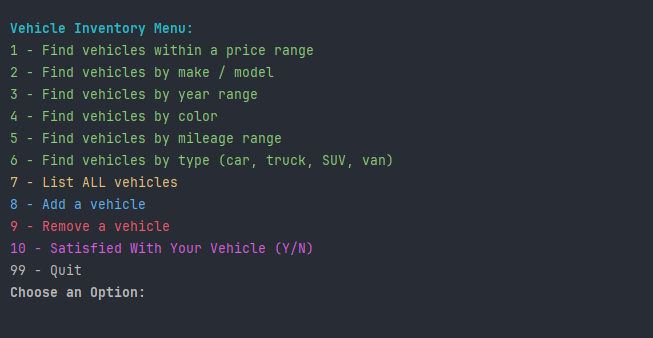
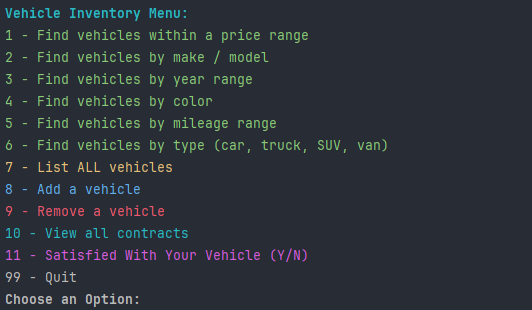
pushing my ReadMe.md so that I dont lose it

diff --git a/ObjOriCarDealershipPt2/ReadMe.md b/ObjOriCarDealershipPt2/ReadMe.md
@@ -34,7 +34,21 @@ This took me a while to figure out because the read file class needs quite a few
 
 ![HomeScreen.png](Screenshots/HomeScreen.png)
 
-As you can see 
+As you can see now my home screen has an added filed of viewing the contacts that the customer has.
+
+![Printout of Contracts.png](Screenshots/Printout%20of%20Contracts.png)
+
+This is the list you see when you press 10  to view all contracts.
+
+![Error of wrong format.png](Screenshots/Error%20of%20wrong%20format.png)
+
+This is an error if you put the csv file name wrong, and you need to stop the app to fix it in the code.
+
+# Interesting code
+
+![Interesting code pt2.png](Screenshots/Interesting%20code%20pt2.png)
+
+This code was interesting because it came from the SalesContact file and change some variables to make the LeaseContact work.
 
 ## Special Thanks 
 Thank you to one of my teammates who helped me find a good Readme creator called https://readme.so/ to help make this readme template, and using https://carbon.now.sh/ to create the screenshot above, and to my professor who caught little issues like my name conventions and little mistakes that I missed when making this project.
